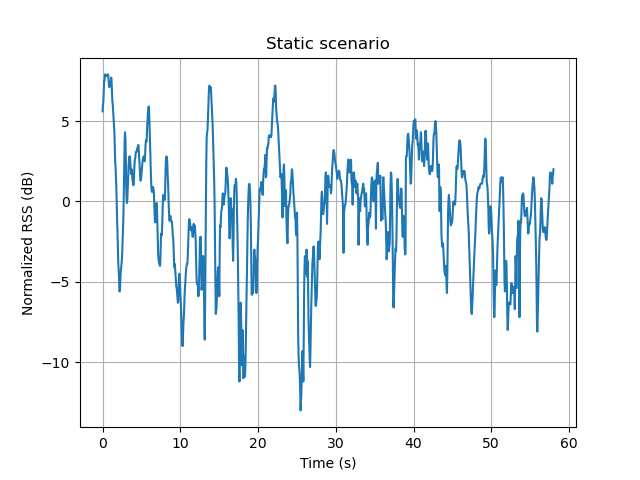
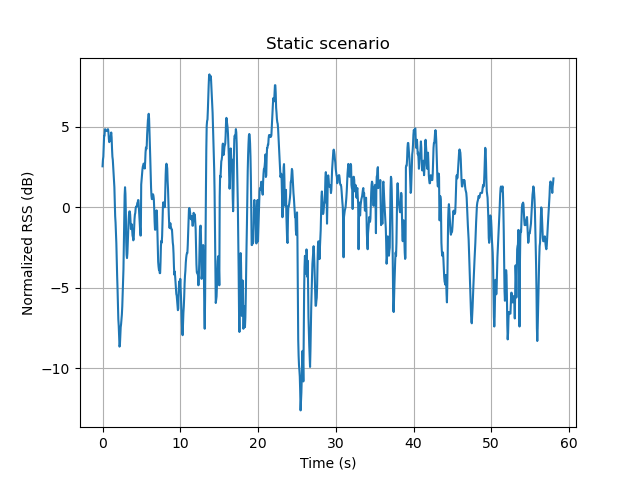
fix mean in static scenario.

Changed region(s): [[0.0625, 0.1562, 0.875, 0.7812], [0.0938, 0.5625, 0.125, 0.625], [0.4688, 0.4062, 0.5, 0.4375]]

diff --git a/dataprocess.py b/dataprocess.py
@@ -225,13 +225,38 @@ def small_scale_static(data, time_s):
     for i, lst in enumerate(data):
         for d in lst:
             meas_dB[i].append(max(d))
-        meas_dB[i] = np.array(meas_dB[i]) - np.median(meas_dB[i])
 
     max_dB = list()
     for m in meas_dB:
         for val in m:
             max_dB.append(val)
     t = np.linspace(0, time_s, len(max_dB))
+
+    start = (5 * len(t) // time_s)
+    stop = (10 * len(t) // time_s)
+    stop2 = (20 * len(t) // time_s)
+    stop3 = (30 * len(t) // time_s)
+    max_dB1 = max_dB[:start]
+    max_dB2 = max_dB[start:stop]
+    max_dB3 = max_dB[stop:stop2]
+    max_dB4 = max_dB[stop2:stop3]
+    max_dB5 = max_dB[stop3:]
+
+    mean1 = np.mean(max_dB1)
+    mean2 = np.mean(max_dB2)
+    mean3 = np.mean(max_dB3)
+    mean4 = np.mean(max_dB4)
+    mean5 = np.mean(max_dB5)
+    norm1 = mean1 - mean2
+    norm2 = mean1 - mean3
+    norm3 = mean1 - mean4
+    norm4 = mean1 - mean5
+    max_dB_tmp = [max_dB1, max_dB2 + norm1, max_dB3 + norm2, max_dB4 + norm3, max_dB5 + norm4]
+
+    max_dB = list()
+    for m in max_dB_tmp:
+        for val in m:
+            max_dB.append(val)
 
     logging.info(f"Max: {np.max(max_dB)} dB")
     logging.info(f"Min: {np.min(max_dB)} dB")
@@ -244,7 +269,7 @@ def small_scale_static(data, time_s):
     plt.grid()
     plt.savefig('figures/Static_scenario1_Measured')
     plt.show()
-   # max_dB = max_dB - np.median(max_dB) # normalize to median
+    max_dB = max_dB - np.median(max_dB) # normalize to median
 
     plt.plot(t, max_dB)
     plt.xlabel('Time (s)')
